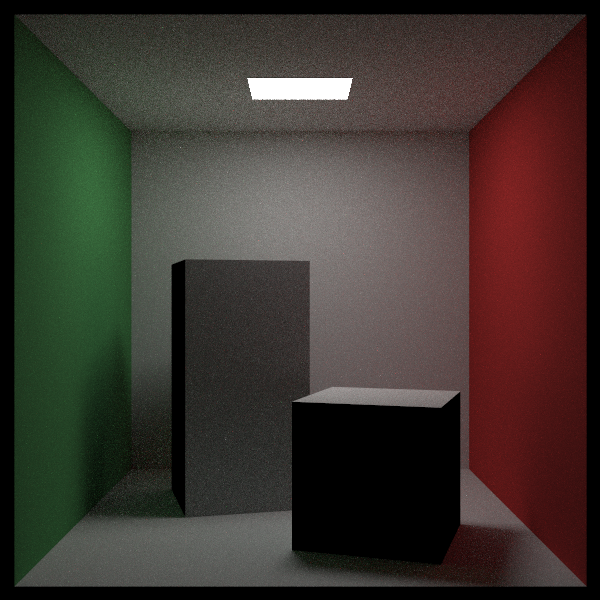
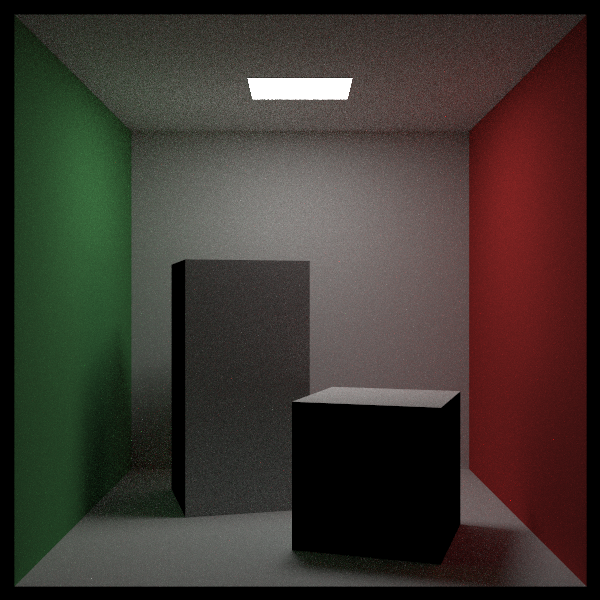
Cornell_box.final2

diff --git a/src/main.rs b/src/main.rs
@@ -19,7 +19,7 @@ pub const PI: f64 = std::f64::consts::PI;
 mod random;
 use random::*;
 mod texture;
-use texture::*;
+// use texture::*;
 mod aabb;
 mod onb;
 mod pdf;
